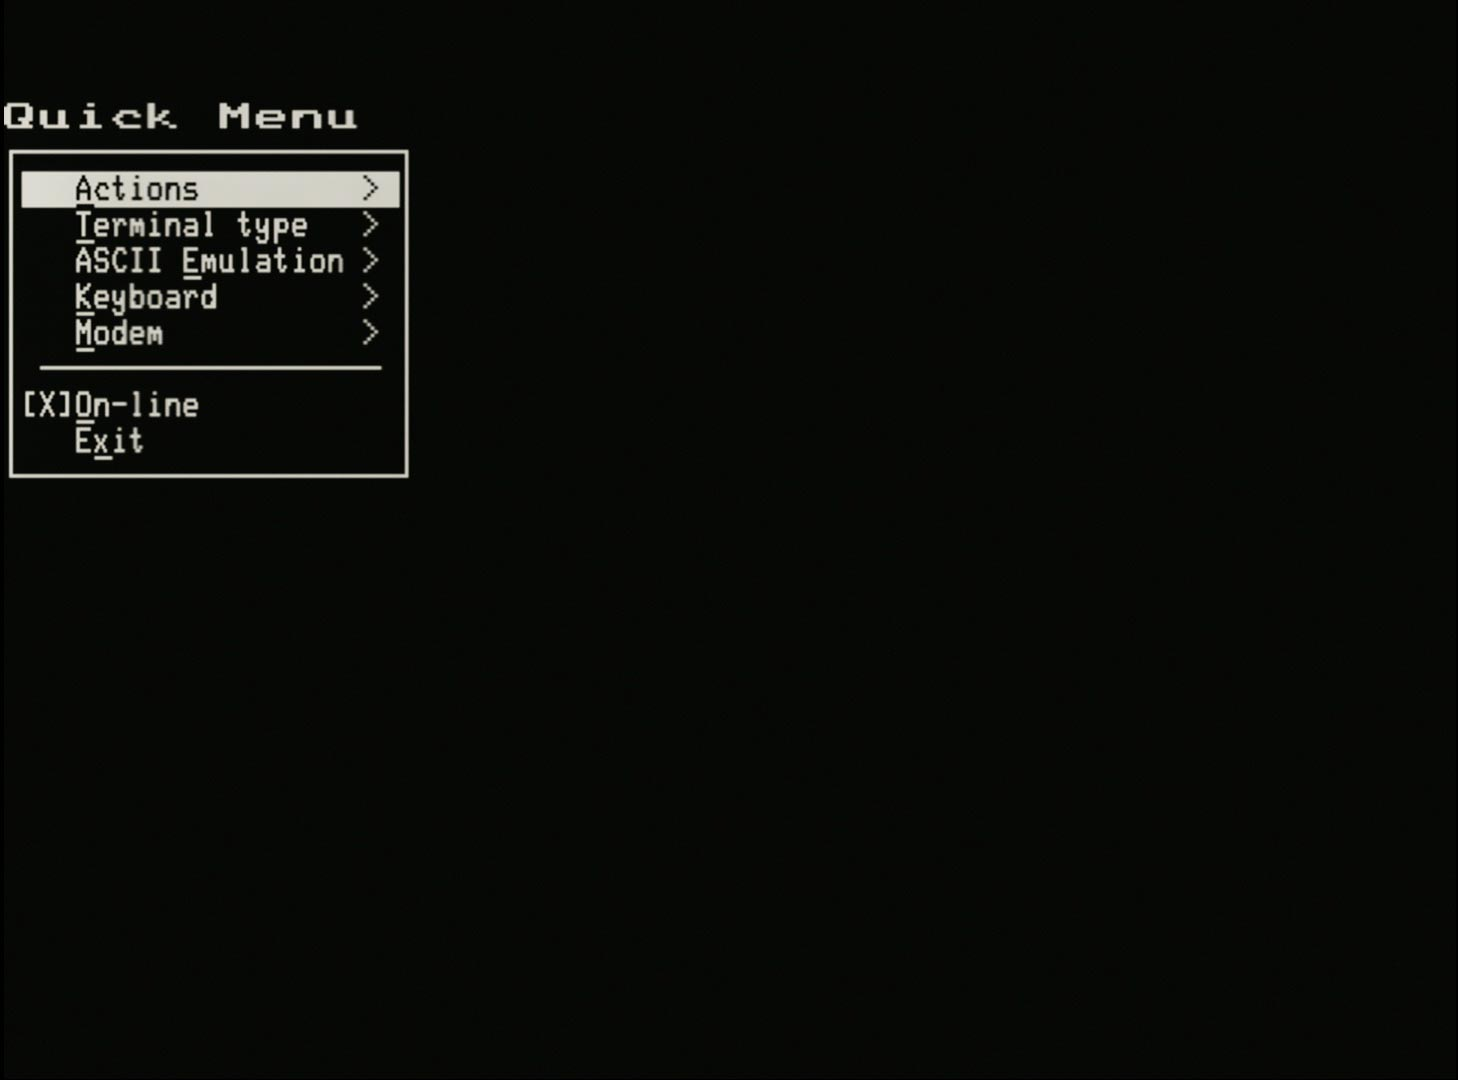
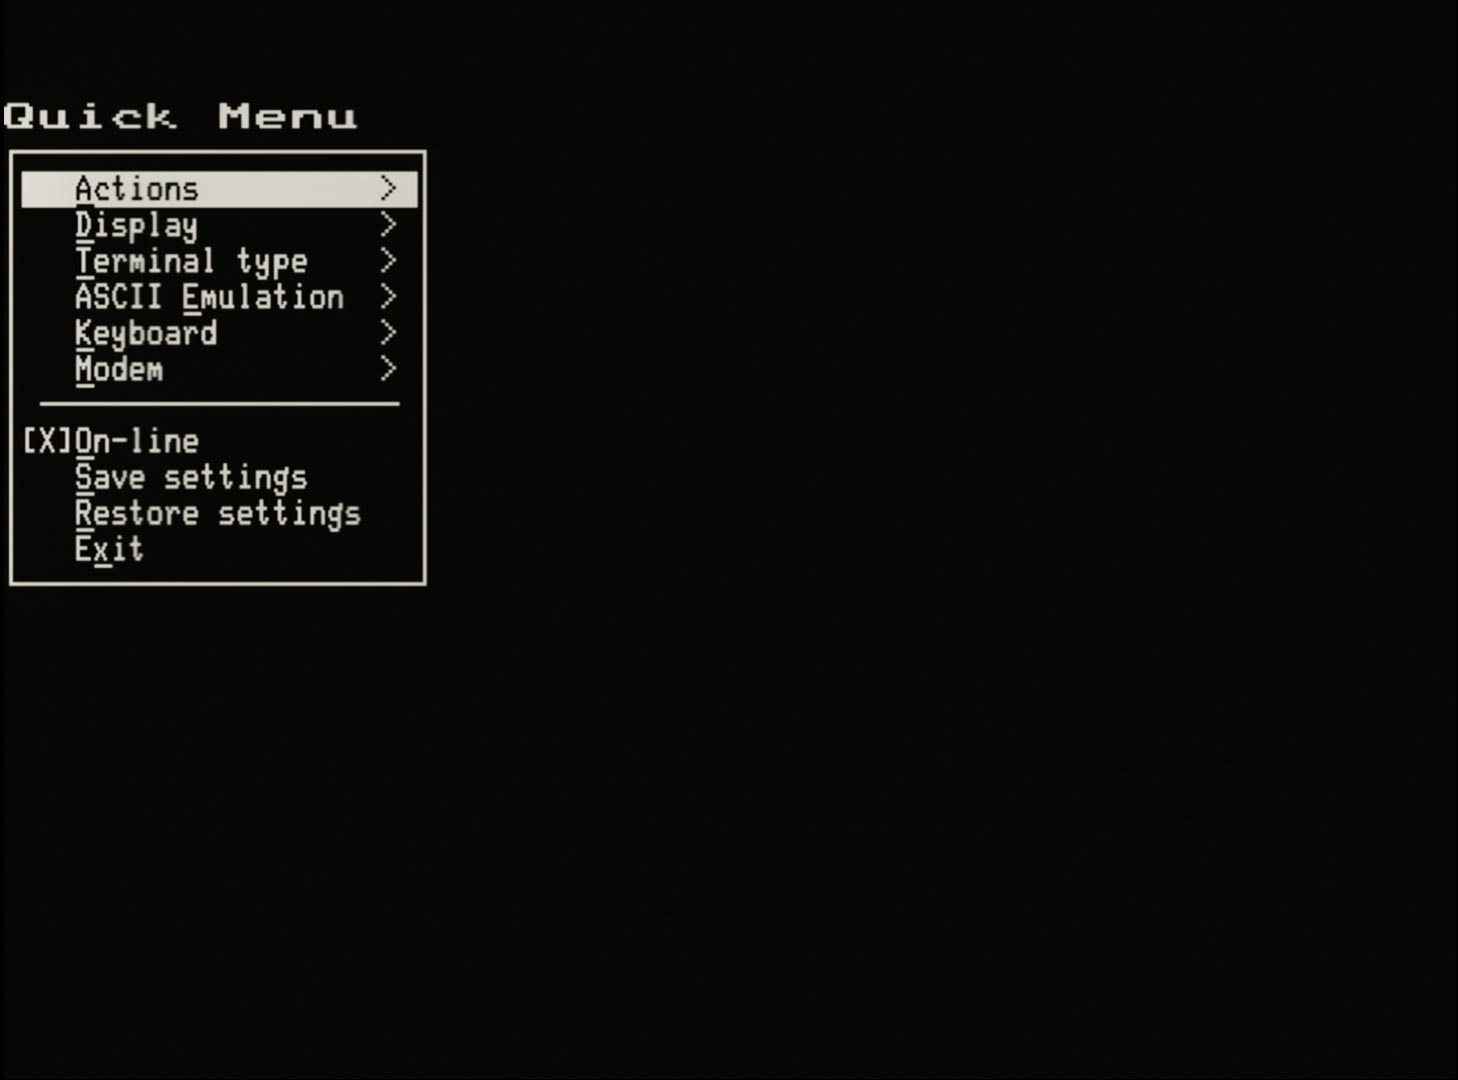
Update: QM screen shots for history & CRT saver

Changed region(s): [[0.0, 0.1222, 0.3086, 0.55]]

diff --git a/docs/vt132/operation/vt100/operator/quick-menu/README.md b/docs/vt132/operation/vt100/operator/quick-menu/README.md
@@ -62,9 +62,13 @@ The available actions are:
 
 ## New: Display menu
 
+![QuickMenu Display](./QM_History.jpg)
+
 - **Lines of history** - selects the number of lines stored (or disable) the scroll history
 - **CRT saver** - selects the timeout for (or disable) the screen saver
 - **Clear history** - an action that clears the contents of the scroll history, same as `<Shift>-C` when in the scroll history
+
+![QuickMenu CRT Saver](./QM_CRT_Saver.jpg)
 
 ## Terminal type menu
 
